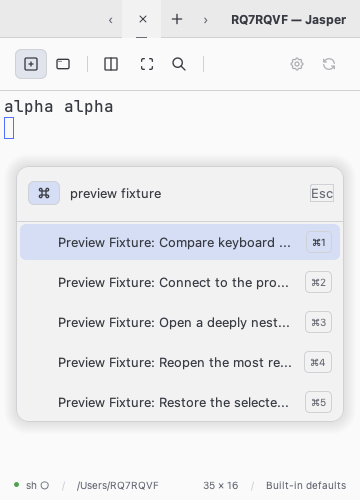
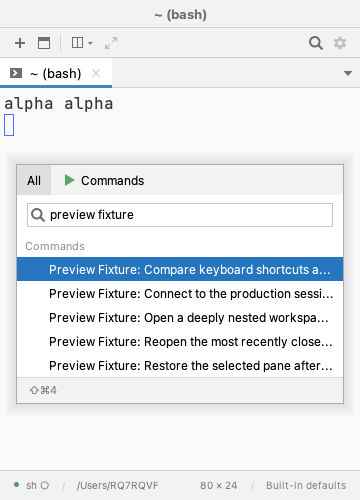
docs(palette): document the Search Everywhere palette
Also drops Cmd+1-5 from the shortcut reference and the config template.

🤖 Generated with Claude Code at The Home Depot

diff --git a/jasper-app/src/main/java/dev/jasper/app/shortcuthelp/ShortcutCatalog.java b/jasper-app/src/main/java/dev/jasper/app/shortcuthelp/ShortcutCatalog.java
@@ -68,11 +68,9 @@ final class ShortcutCatalog {
         add(rows, "palette.tertiary", "Command Palette", "Run third action", KeyEvent.VK_ENTER, InputEvent.SHIFT_DOWN_MASK, "Command palette");
         add(rows, "palette.next", "Command Palette", "Next result", KeyEvent.VK_DOWN, 0, "Command palette");
         add(rows, "palette.previous", "Command Palette", "Previous result", KeyEvent.VK_UP, 0, "Command palette");
-        add(rows, "palette.tab", "Command Palette", "Accept scope or next field", KeyEvent.VK_TAB, 0, "Palette scope picker or step form");
-        add(rows, "palette.backtab", "Command Palette", "Accept scope or previous field", KeyEvent.VK_TAB, InputEvent.SHIFT_DOWN_MASK, "Palette scope picker or step form");
+        add(rows, "palette.tab", "Command Palette", "Next tab or next field", KeyEvent.VK_TAB, 0, "Command palette or step form");
+        add(rows, "palette.backtab", "Command Palette", "Previous tab or previous field", KeyEvent.VK_TAB, InputEvent.SHIFT_DOWN_MASK, "Command palette or step form");
         add(rows, "palette.escape", "Command Palette", "Back or dismiss", KeyEvent.VK_ESCAPE, 0, "Command palette");
-        for (int n = 1; n <= 5; n++) add(rows, "palette.result" + n, "Command Palette", "Run result " + n,
-            KeyEvent.VK_1 + n - 1, primary, "Command palette");
         // These bundled controls have local handlers, not SDK action registrations. Keep in step with
         // HostsPanel.activate and ManagerPanel.editSelected; never instantiate plugin UI to inspect it.
         if (actions.stream().anyMatch(a -> a.id().startsWith("dev.jasper.remote."))) {

diff --git a/jasper-app/src/test/java/dev/jasper/app/shortcuthelp/ShortcutHelpTest.java b/jasper-app/src/test/java/dev/jasper/app/shortcuthelp/ShortcutHelpTest.java
@@ -48,6 +48,15 @@ class ShortcutHelpTest {
         });
     }
 
+    @Test void catalogDropsResultShortcutsAndDescribesTabAsSwitchingTabs() throws Exception {
+        edt(() -> {
+            var rows = ShortcutCatalog.rows(KeyBindings.defaults(true), List.of(), Map.of(), true);
+            assertThat(rows).noneMatch(row -> row.id().startsWith("palette.result"));
+            assertThat(rows).filteredOn(row -> row.id().equals("palette.tab")).singleElement()
+                .satisfies(row -> assertThat(row.name()).isEqualTo("Next tab or next field"));
+        });
+    }
+
     @Test void contextualKeysAreLabeledAndBundledPluginKeysDisappearWithTheirActions() throws Exception {
         edt(() -> {
             var c = new Contributions();

diff --git a/jasper-app/src/main/java/dev/jasper/app/config/ConfigTemplate.java b/jasper-app/src/main/java/dev/jasper/app/config/ConfigTemplate.java
@@ -54,7 +54,7 @@ public final class ConfigTemplate {
             # enabled = false
 
             [palette]
-            # Rows the command palette shows in every scope, 1-20; updates live. Cmd/Ctrl+1-5 still number the first five.
+            # Rows each palette scope shows, and the All tab shows per scope, 1-20; updates live.
             # max_results = 5
 
             [font]

diff --git a/docs/command-palette.md b/docs/command-palette.md
@@ -1,27 +1,21 @@
 # Command palette
 
-The palette holds more than one kind of searchable thing, called a **scope**.
-Cmd+K on macOS or Ctrl+K on Windows and Linux (or View → Command Palette) always
-opens the **Commands** scope; Cmd+R on macOS or Ctrl+Shift+R elsewhere always
-opens the **History** scope; Cmd+J on macOS or Ctrl+Shift+J elsewhere always
-opens the **Snippets** scope. Pressing the shortcut for the scope that is already
-active dismisses the palette instead of reopening it. Each scope shows a chip —
-its icon and label — at the left of the input; type `>` at the start of an empty
-query to open the scope picker (or type `>snip` to jump straight to Snippets), use
-Tab or Enter to switch to the highlighted scope, and Escape to leave the picker
-and keep the previous scope. Clicking the chip opens the picker too.
+The palette works like IntelliJ's Search Everywhere. A row of tabs sits above the search field:
+**All** first, then one tab per **scope** (Commands, History, Snippets, SSH and any a plugin adds).
+Cmd+K on macOS or Ctrl+K on Windows and Linux (or View → Command Palette) opens **All**, which
+searches every scope at once and groups the matches under each scope's name, at most
+`palette.max_results` per scope; when a scope has more, a "More in <Scope>…" row opens that scope's
+tab with the query kept. Vault's secrets stay out of All; its tab searches them. Each scope's own
+shortcut opens its tab: Cmd+R (Ctrl+Shift+R elsewhere) History, Cmd+J (Ctrl+Shift+J) Snippets.
+Pressing the shortcut of the tab already showing closes the palette. Tab and Shift+Tab move between
+tabs, keeping the query; clicking a tab does the same.
 
-Within a scope, Enter runs the first verb, Cmd+Enter (Ctrl+Enter elsewhere) runs
-the second verb, and Shift+Enter runs the third verb where a scope has one; all
-three are shown as a footer hint whenever a scope has more than one verb.
-Commands has one verb, Run, so its footer stays hidden, as before. History has
-three: Enter pastes, Cmd+Enter pastes and runs, Shift+Enter opens a step to save
-the selected command as a snippet. Snippets also has three: Enter pastes,
-Cmd+Enter pastes and runs, Shift+Enter opens `snippets.toml` in the OS editor.
-Escape, the active scope's own opening shortcut again, or an outside click closes
-the palette (Escape first leaves an open step, keeping the list underneath). Use
-Up/Down and Enter, or Cmd+1–5 / Ctrl+1–5 to act on a numbered result; plain
-digits are search text.
+Rows are one line: an icon, the title, a grey detail and a right-aligned tag. Up and Down move
+between rows, skipping the section headers. Enter runs a row's first verb, Cmd+Enter (Ctrl+Enter
+elsewhere) its second and Shift+Enter its third. The hint bar under the list shows the selected
+row's detail and its other verbs with their keys; click one to run it. Escape leaves an open step,
+keeping the list underneath, and otherwise closes the palette, as does an outside click. Plain
+digits are search text. Every colour comes from the installed theme.
 
 | Scope | Enter | Cmd/Ctrl+Enter | Shift+Enter |
 |---|---|---|---|
@@ -188,7 +182,7 @@ can refuse a verb per row, for example when its target is no longer live), and
 final class FakeFeatureScope implements PaletteScope {
     @Override public String id() { return "jasper.fake-feature"; }
     @Override public String label() { return "Fake Feature"; }
-    @Override public String placeholder() { return "Search fake feature, or > to switch scope"; }
+    @Override public String placeholder() { return "Search fake feature"; }
     @Override public List<PaletteVerb> verbs() {
         return List.of(new PaletteVerb("open", "Open"), new PaletteVerb("open_pinned", "Open pinned"));
     }
@@ -219,7 +213,7 @@ contract makes no compatibility promise for a future plugin API. No plugin loadi
 or discovery exists; Jasper ships Commands, History and Snippets.
 
 `WindowCommandPalette` captures the origin tab/pane and restores focus; changing
-scopes retains that target. `PaletteController` owns query, picker and step state.
+tabs retains that target. `PaletteController` owns the open tab, query and step state.
 Completion callbacks are marshalled to EDT and recheck generation, step identity,
 registered scope and origin validity before publishing. Dismissal, scope changes,
 step cancellation, pane/tab changes and window closure invalidate stale results.
@@ -275,8 +269,8 @@ locking.
 
 The [actual Swing renders, pure-search and shell-history-search measurements, and
 reproduction commands](design/command-palette/README.md) cover the headless
-verification, including scopes, the picker, History rows, the Snippets list and
-its fill-in and name steps. Native focus, input methods, accessibility, chip
+verification, including the All tab, scope tabs, History rows, the Snippets list and
+its fill-in and name steps. Native focus, input methods, accessibility, tab
 rendering on the real title-bar theme, physical-display placement and editing
 `snippets.toml` in the real OS editor remain in the [manual acceptance
 checklist](superpowers/plans/2026-09-12-jasper-command-palette-manual-check.md).

diff --git a/docs/design/command-palette/README.md b/docs/design/command-palette/README.md
@@ -1,5 +1,10 @@
 # Command palette verification
 
+Regenerated on 2026-09-25 for the Search Everywhere palette (All and scope tabs, IntelliJ Light and
+Jasper Dark). The Recents, `pane`, No match and Long labels states now render the All tab. The
+History and Snippets images, and the notes about the chip, the `>` picker and numbered badges
+further down, record the earlier palette.
+
 These images render the real `WindowContent`, `JRootPane`, terminal component,
 command registry, in-memory history, and palette overlay. The fixture creates no
 `JFrame` and never starts the user's login shell. On macOS and Linux it runs the
@@ -28,7 +33,7 @@ the rest carry no directory. Every third synthetic entry is bash and the rest ar
 | Long labels, 360×500 | [1×](long-labels-narrow-dark-360x500-1x.png) / [2×](long-labels-narrow-dark-360x500-2x.png) | [1×](long-labels-narrow-light-360x500-1x.png) / [2×](long-labels-narrow-light-360x500-2x.png) |
 | History, most recent (15 entries, the newest 5 shown) | [1×](history-recent-dark-900x600-1x.png) / [2×](history-recent-dark-900x600-2x.png) | [1×](history-recent-light-900x600-1x.png) / [2×](history-recent-light-900x600-2x.png) |
 | History, `git` query, two results | [1×](history-query-dark-900x600-1x.png) / [2×](history-query-dark-900x600-2x.png) | [1×](history-query-light-900x600-1x.png) / [2×](history-query-light-900x600-2x.png) |
-| Scope picker (`>`) | [1×](scope-picker-dark-900x600-1x.png) / [2×](scope-picker-dark-900x600-2x.png) | [1×](scope-picker-light-900x600-1x.png) / [2×](scope-picker-light-900x600-2x.png) |
+| Commands tab, `pane` | [1×](commands-tab-dark-900x600-1x.png) / [2×](commands-tab-dark-900x600-2x.png) | [1×](commands-tab-light-900x600-1x.png) / [2×](commands-tab-light-900x600-2x.png) |
 | Snippets, five of six shown | [1×](snippets-dark-900x600-1x.png) / [2×](snippets-dark-900x600-2x.png) | [1×](snippets-light-900x600-1x.png) / [2×](snippets-light-900x600-2x.png) |
 | Snippet fill-in step (`Deploy`, two fields) | [1×](snippet-fill-in-dark-900x600-1x.png) / [2×](snippet-fill-in-dark-900x600-2x.png) | [1×](snippet-fill-in-light-900x600-1x.png) / [2×](snippet-fill-in-light-900x600-2x.png) |
 | History save-name step (`npm run dev`) | [1×](history-save-name-dark-900x600-1x.png) / [2×](history-save-name-dark-900x600-2x.png) | [1×](history-save-name-light-900x600-1x.png) / [2×](history-save-name-light-900x600-2x.png) |

diff --git a/docs/configuration.md b/docs/configuration.md
@@ -186,10 +186,9 @@ acted on.
 
 ### Palette
 
-`palette.max_results` is the hard cap on rows the command palette lists, in every scope: Commands shows the
-best `max_results` matches and History the most recent or best-matching `max_results` commands, with no
-scrolling. Cmd/Ctrl+1–5 always act on the first five rows, so a larger cap only adds rows you reach with the
-arrow keys. Changes apply live, including to an open palette.
+`palette.max_results` is the cap on rows each scope contributes: a scope's tab lists at most that
+many, and the All tab shows at most that many per scope, with a "More in <Scope>…" row when there
+are more. Changes apply live, including to an open palette.
 
 ### Finished-command notifications
 
@@ -305,7 +304,7 @@ configuration is reported as moved and ignored.
 
 ### Snippets
 
-The Snippets scope (Cmd+J on macOS, Ctrl+Shift+J elsewhere; `>snip` from the picker) is the
+The Snippets scope (Cmd+J on macOS, Ctrl+Shift+J elsewhere, or its tab in the palette) is the
 bundled `dev.jasper.snippets` plugin. It reads and appends `snippets.toml` in the plugin's data
 directory, `<Jasper home>/plugins/dev.jasper.snippets/data/`; a `snippets.toml` in the Jasper home
 from before the plugin is moved there on first launch. It is a separate file: it is not part of the
@@ -483,9 +482,8 @@ The [command palette](command-palette.md) opens with Cmd+K on macOS and Ctrl+K o
 Windows/Linux. Clear Scrollback uses Cmd+Shift+K on macOS and Ctrl+Shift+K
 elsewhere. The bundled plugins add Search Shell History (`"dev.jasper.history.open"`, Cmd+R on
 macOS and Ctrl+Shift+R elsewhere) and Snippets (`"dev.jasper.snippets.open"`, Cmd+J and
-Ctrl+Shift+J), rebindable by their quoted ids. While
-the palette is open, Cmd/Ctrl+1–5 runs the corresponding visible result; plain digits
-continue to edit the search field.
+Ctrl+Shift+J), rebindable by their quoted ids. Cmd+K opens the All tab. While the palette is
+open, Tab and Shift+Tab switch tabs; plain digits edit the search field.
 
 On macOS, keep Cmd+K for Clear Scrollback and move the palette to Cmd+P:
 

diff --git a/docs/superpowers/plans/2026-09-25-jasper-search-everywhere.md b/docs/superpowers/plans/2026-09-25-jasper-search-everywhere.md
@@ -2,7 +2,14 @@
 
 > **For agentic workers:** REQUIRED SUB-SKILL: Use superpowers:subagent-driven-development (recommended) or superpowers:executing-plans to implement this plan task-by-task. Steps use checkbox (`- [ ]`) syntax for tracking.
 
-**Status:** Plan written 2026-09-25, awaiting user review. Not started. It runs after `2026-09-25-jasper-theme-engine.md` and uses its `Theme`, `ThemeTestSupport.install(Theme)` and `SearchEverywhere.*` keys.
+**Status:** Executed 2026-09-25 on branch `claude/theme-engine`, subagent-driven (Tasks 1–4), after `2026-09-25-jasper-theme-engine.md`, whose `Theme`, `ThemeTestSupport.install(Theme)` and `SearchEverywhere.*` keys it uses. Deviations from the task text, from the task reviews:
+- Task 2: View → Command Palette and its root key binding open All as well (`WorkspaceActions`), matching Cmd/Ctrl+K.
+- Task 2: a step opened from an All row closes the palette when its scope is removed, as a scope tab's step already did.
+- Task 2: rows drop the tag before cutting the detail, and unselected tabs use `Label.foreground` (spec §1).
+- Task 2: All budgets its rows to 200 in total (`PaletteResults.MAX_ROWS`); scopes past the budget get no section.
+- Task 2: the overlay shadow takes its colour from `Popup.dropShadowColor`.
+- Task 4: the shortcut reference drops the Cmd+1–5 rows and describes Tab as switching tabs; the config template's `[palette]` comment drops Cmd+1–5.
+Not done: visual acceptance (user-run), merge and push.
 
 **Goal:** Rebuild the command palette as classic IntelliJ's Search Everywhere:
 - a tab row (All, then one tab per scope);

diff --git a/docs/STATUS.md b/docs/STATUS.md
@@ -33,6 +33,21 @@
 
     The plan's status has the full list.
   - **Not done:** visual acceptance of Light and Dark (user-run), merge and push.
+- **Search Everywhere palette** (branch `claude/theme-engine`, plan
+  `docs/superpowers/plans/2026-09-25-jasper-search-everywhere.md`):
+  - **Tabs:** All first (Cmd/Ctrl+K), then one tab per scope.
+  - **All tab:** groups each participating scope's matches, capped per scope, with a "More in…"
+    row. SDK 0.8.0 adds `ScopeSpec.withInAll`; Vault opts out.
+  - **Rows:** one line, with a hint bar showing the other verbs. Tab and Shift+Tab switch tabs.
+  - **Colours** come from the theme's `SearchEverywhere.*`, `List.*`, `Popup.borderColor`,
+    `Popup.dropShadowColor` and `Component.linkColor`.
+  - **Removed:** the `>` picker, scope aliases, the Cmd+1–5 row shortcuts and the `Jasper.palette*`
+    keys.
+  - **Deviations:** View → Command Palette opens All too; a step from All closes with its scope;
+    the tag drops before the detail; All caps at 200 rows; the shortcut reference and config
+    template drop Cmd+1–5. Details in the plan's status banner.
+  - **Planning decisions:** listed in the plan header.
+  - **Not done:** visual acceptance (user-run), merge and push.
 
 ### IntelliJ-style chrome and follow-ups — merged 2026-09-25
 

diff --git a/docs/sdk-architecture.md b/docs/sdk-architecture.md
@@ -160,7 +160,9 @@ and routes a `PaletteRequest` for its window to `WindowCommandPalette.open(scope
 `shortcutActionId`, only while the palette is open; closed, the plugin's own action handler runs
 and calls `Palette.open`. `plugins.HostedPalette` adapts an SDK scope: contained calls, a
 `PaletteQuery` built from the target's window and pane ids through the plugin's own handles, and
-the plugin's row kept as the app row's token so it comes back unchanged. `HostedContext.notices()`
+the plugin's row kept as the app row's token so it comes back unchanged. Every scope gets a tab;
+`ScopeSpec.inAll` (SDK 0.8.0, `withInAll(false)` to opt out) decides whether the All tab searches it
+too, and `HostedPalette` carries it as `PaletteScope.inAll()`. `HostedContext.notices()`
 reaches the last active window's error handler; `platform().openInEditor` runs the application's
 `ConfigEditor` on the plugin's executor and reports failure as a notice. `PaneInfo.shell` is
 `PaneSnapshot.shell`, the pane's launcher label. The bundled History and Snippets plugins are the first
